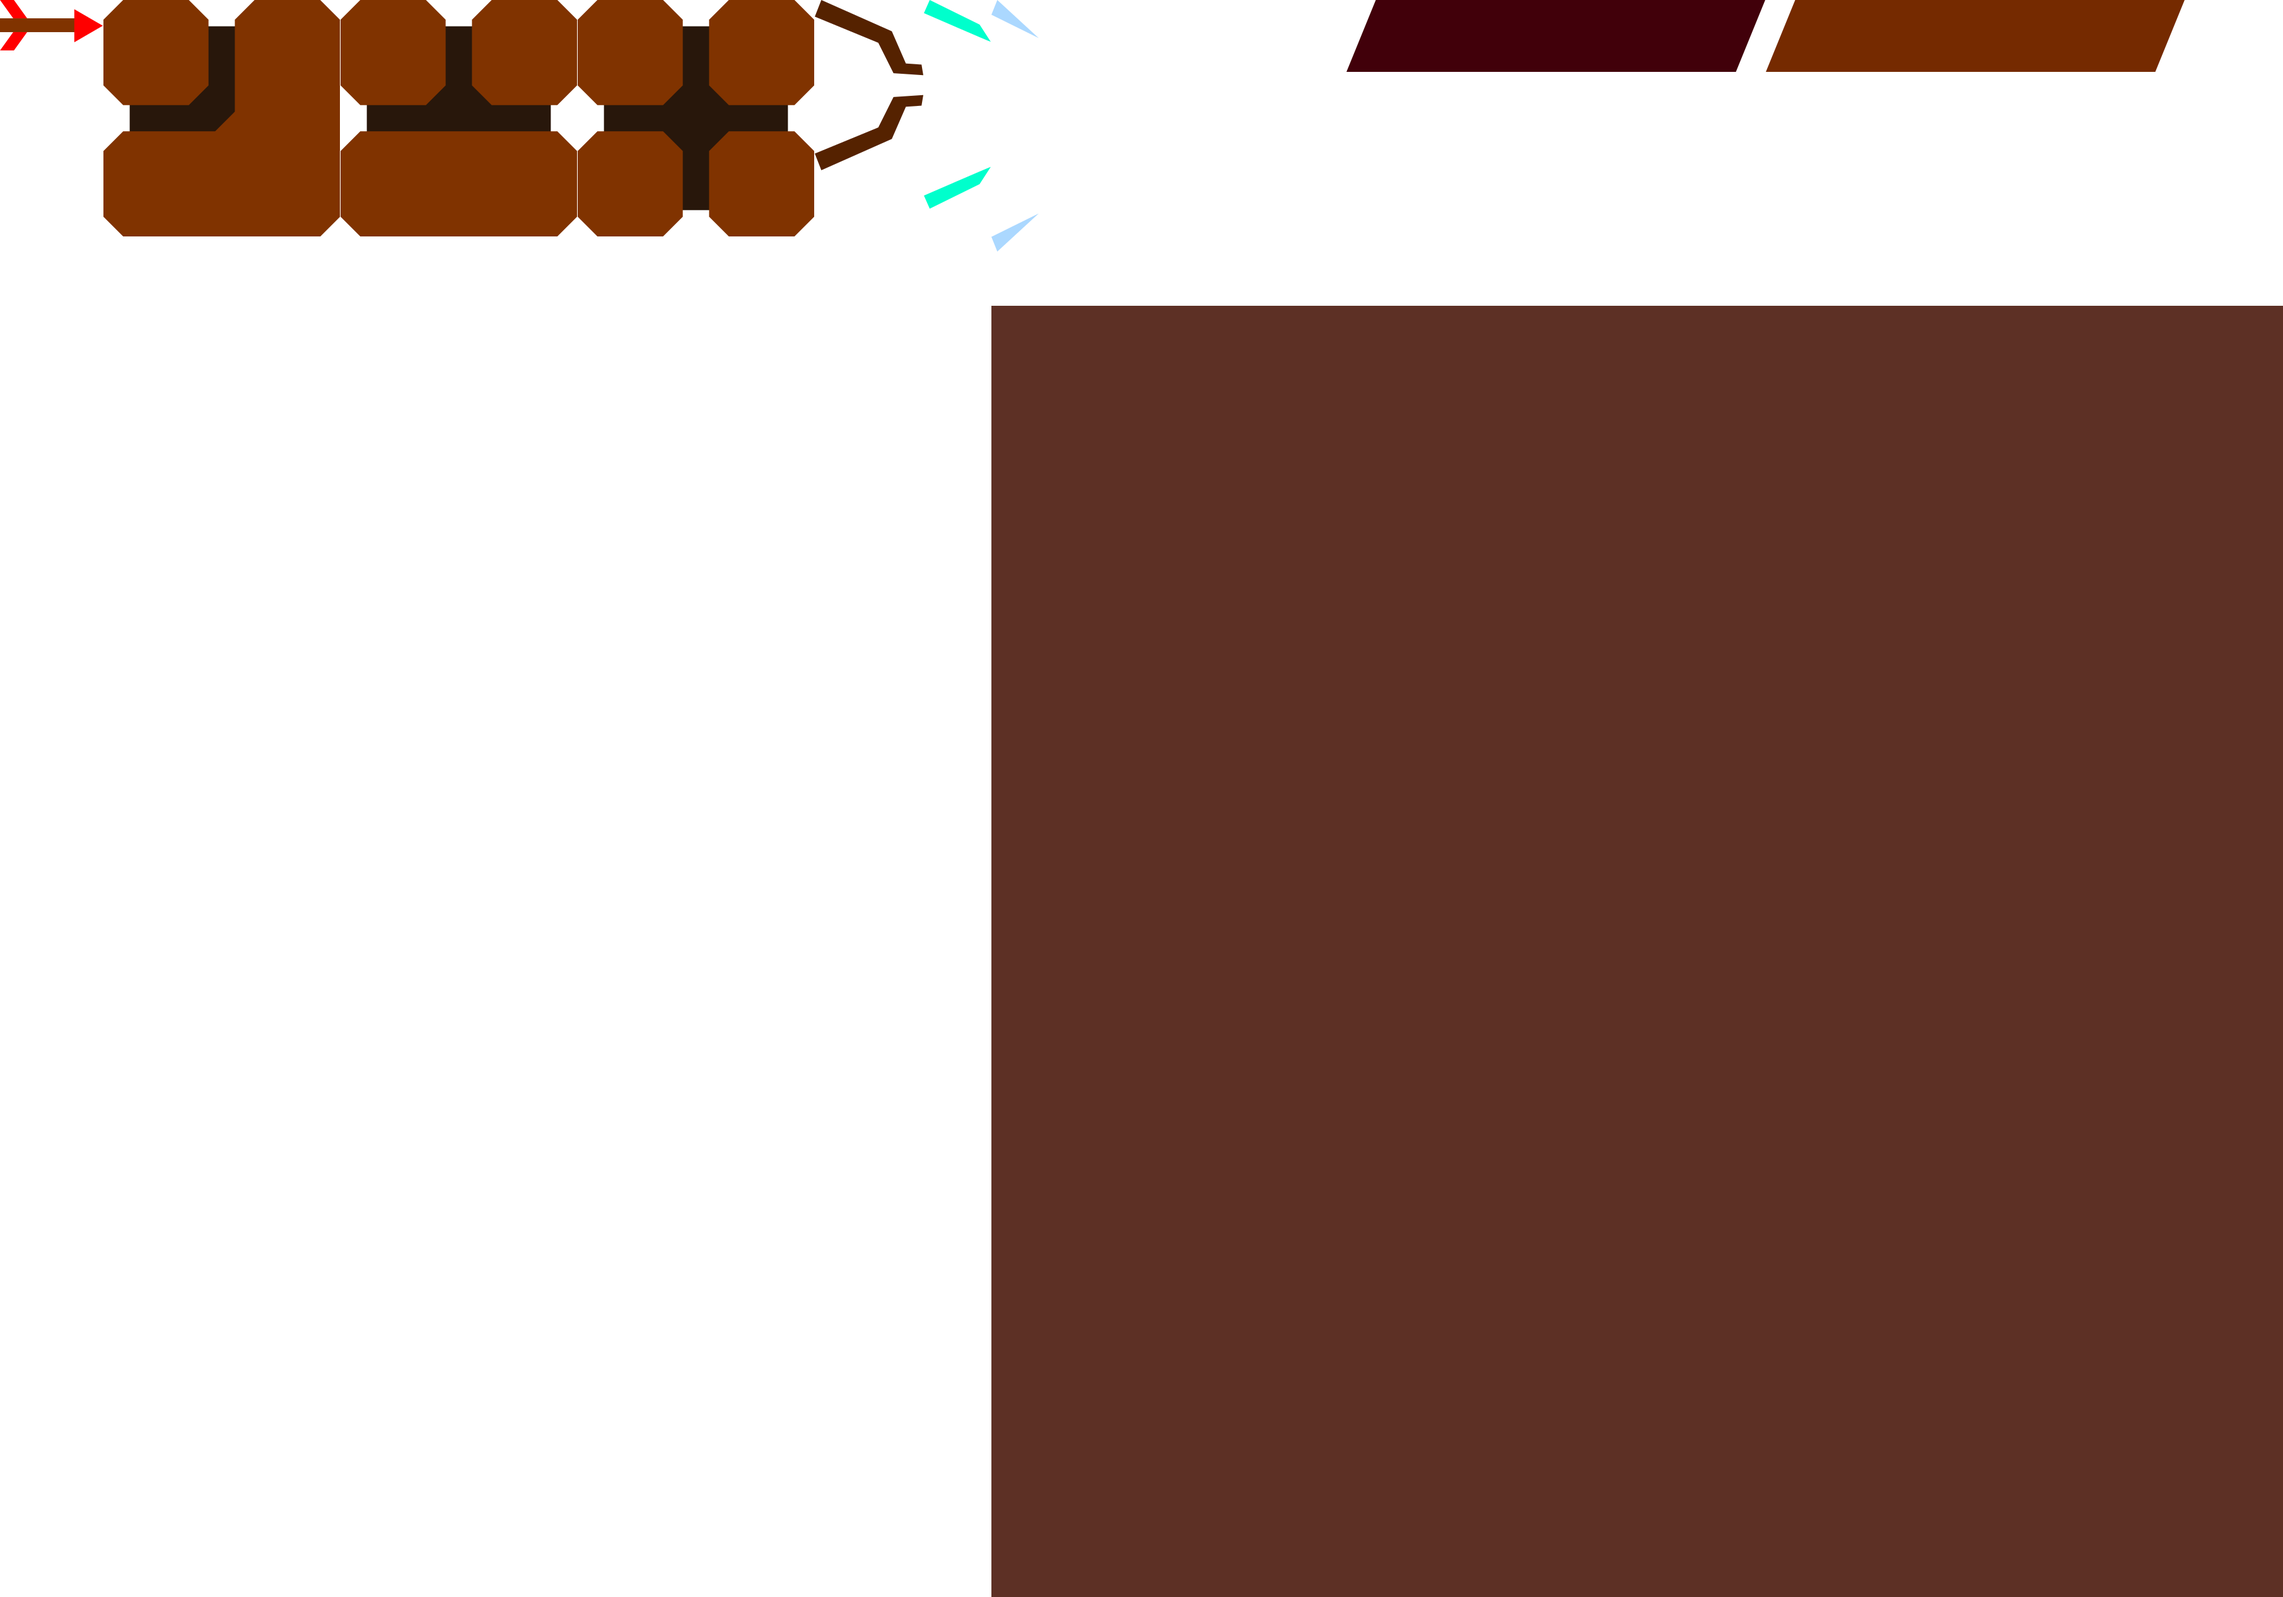
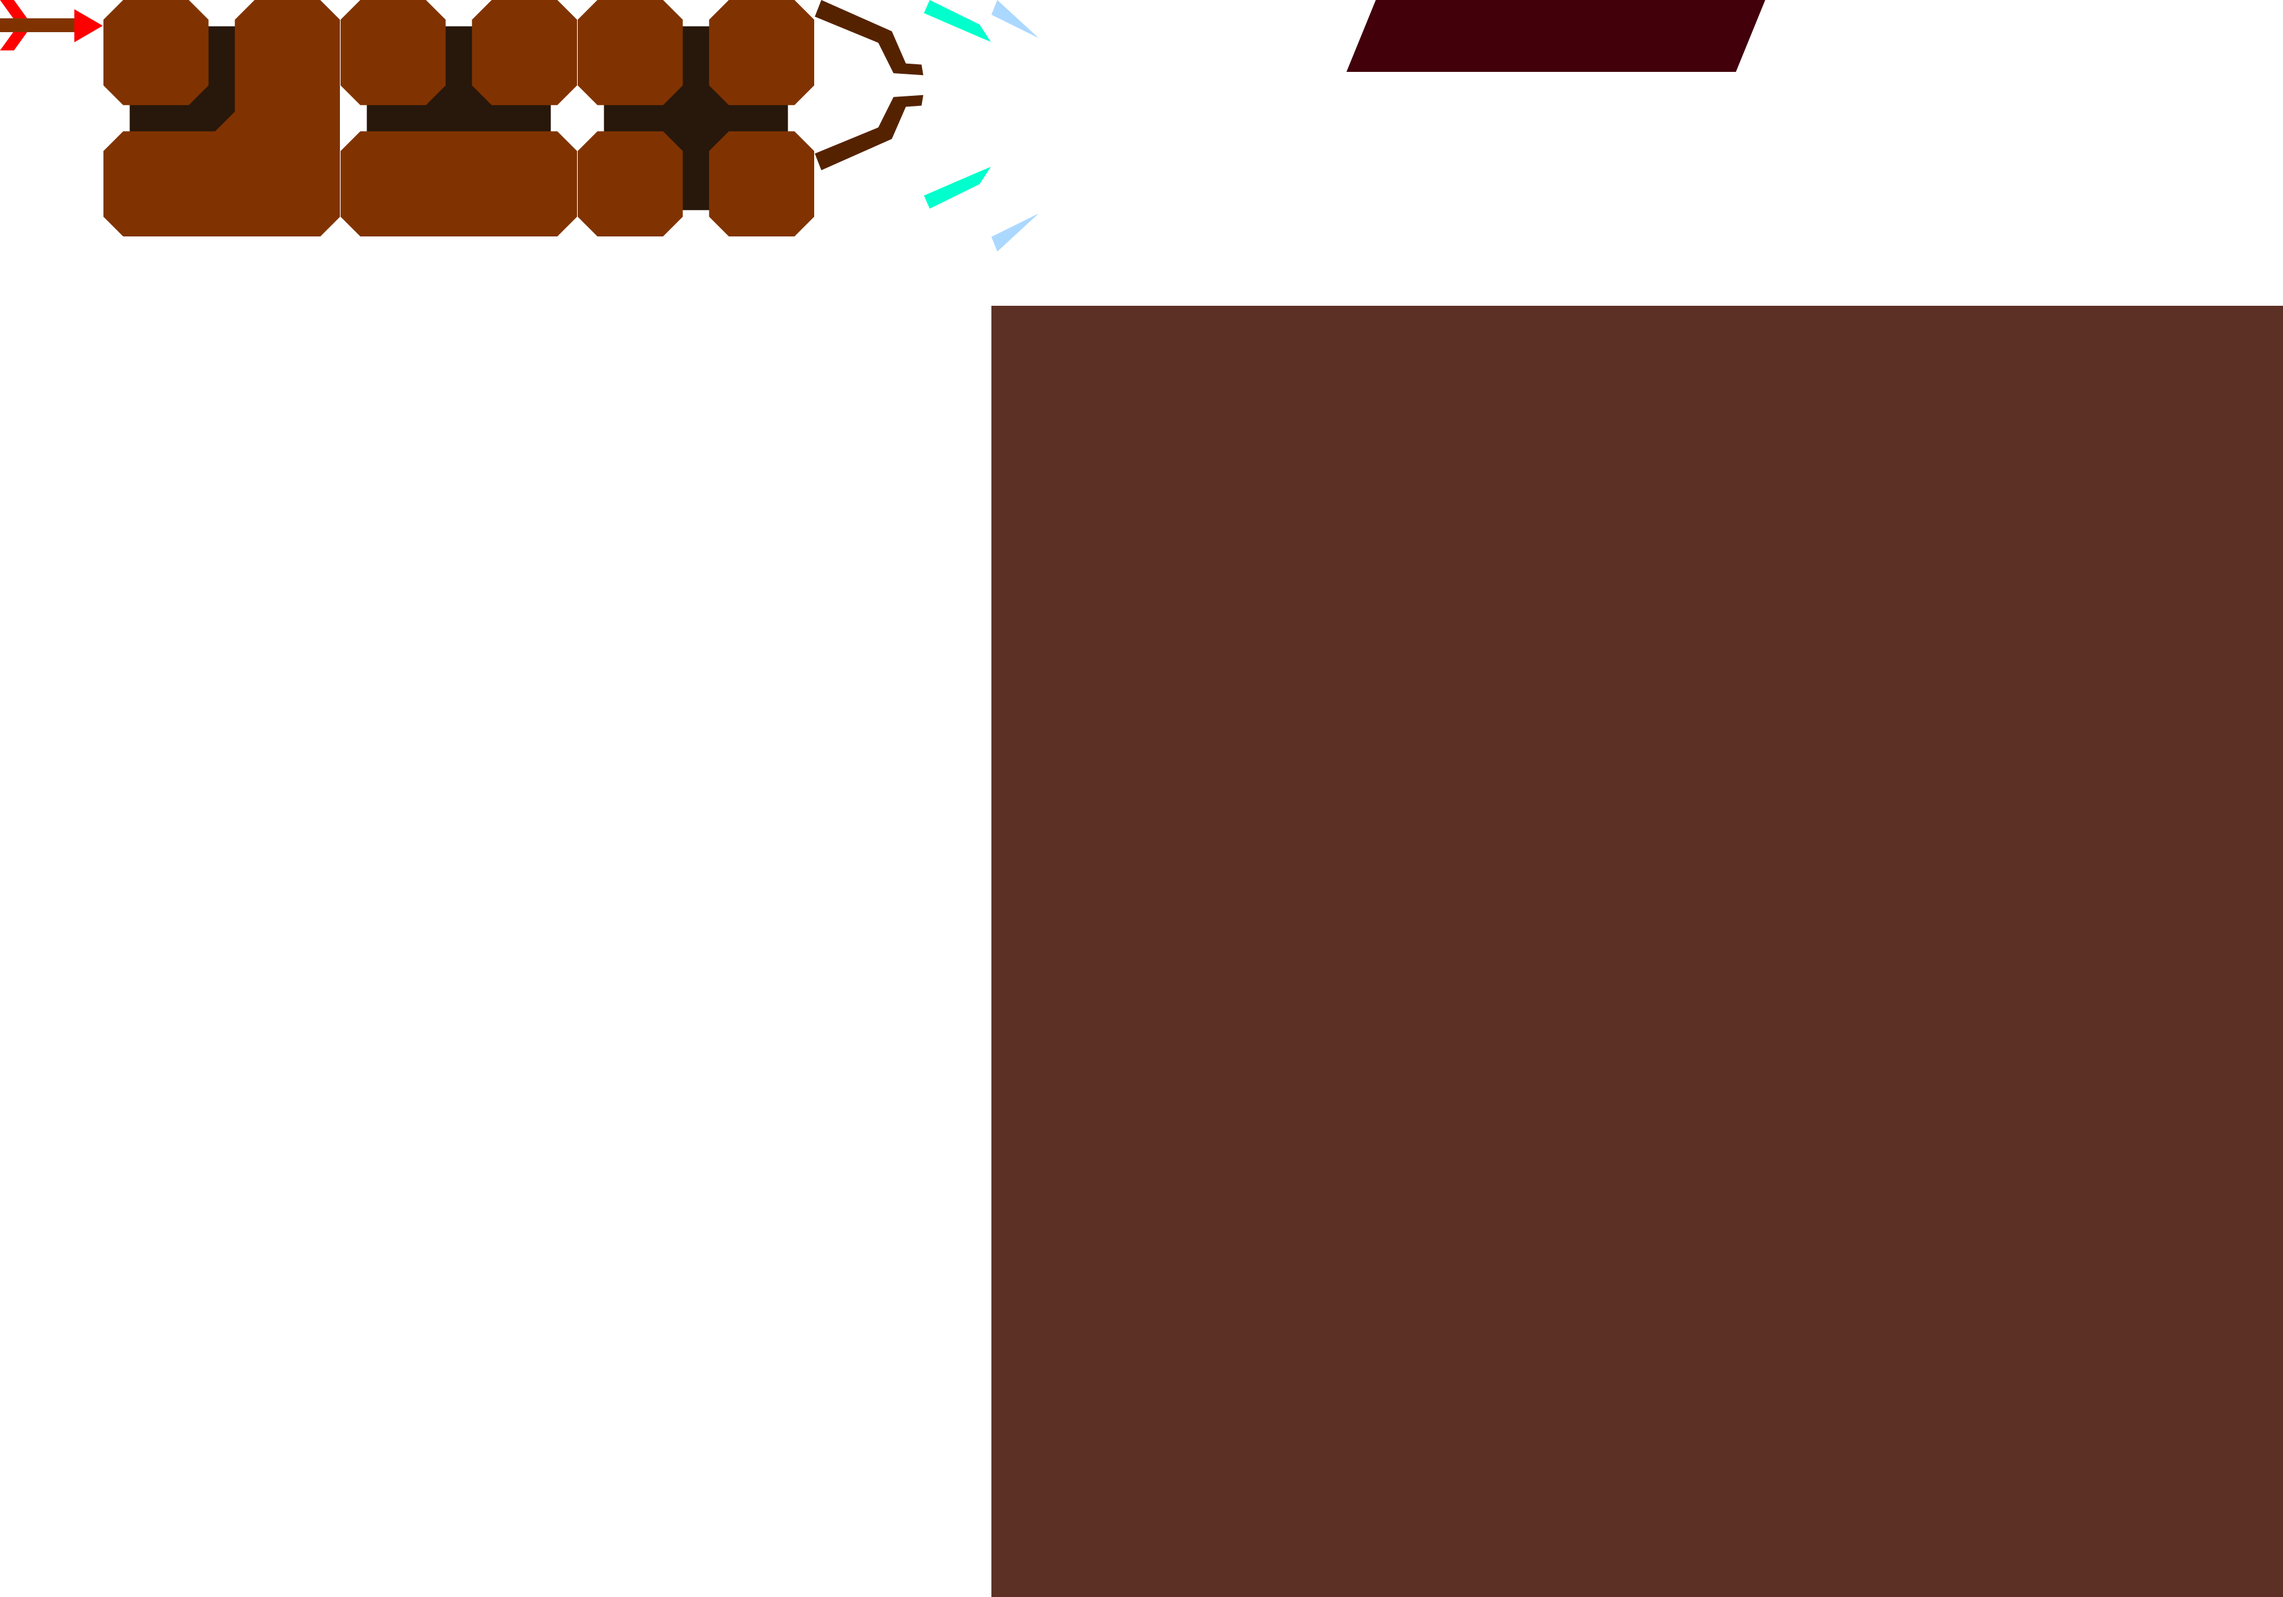
color & propagate mouse

Changed region(s): [[0.7804, 0.0, 0.9677, 0.0624]]

diff --git a/src/objects/text_button.rs b/src/objects/text_button.rs
@@ -19,16 +19,21 @@ pub struct TextButtonDescriptor<'a> {
 }
 
 impl TextButton {
-    pub fn new(desc: TextButtonDescriptor) -> Self {
-        const MARGIN: f32 = 0.04;
+    const COLOR: u32 = 0x41000AFF;
+    const HOVER_COLOR: u32 = 0x752A00FF;
 
-        let view = TextureAtlas::view_text_button();
+    pub fn new(desc: TextButtonDescriptor) -> Self {
+        const MARGIN: f32 = 1.3;
+
+        let tex_view = TextureAtlas::view_text_button();
+
         let back_quad = desc.layer.buffer.push(QuadInstance {
             pos: desc.pos,
-            size: view.aspect_ratio_x1() * desc.size + MARGIN,
+            size: tex_view.aspect_ratio_x1() * desc.size * MARGIN,
+            color: Self::COLOR,
             angle: 0.,
-            tex_pos: view.pos,
-            tex_size: view.size,
+            tex_pos: tex_view.pos,
+            tex_size: tex_view.size,
         });
 
         let text_width = desc.font.width(desc.text) * desc.size;
@@ -38,8 +43,8 @@ impl TextButton {
             .write(desc.text, desc.size)
             .map(|mut quad| {
                 quad.pos += desc.pos;
-                quad.pos.x -= text_width * 0.5; // Center Horizontally
-                quad.pos.y -= desc.size * 0.37; // Center Vertically
+                quad.pos.x -= text_width * 0.5;
+                quad.pos.y -= desc.size * 0.37;
                 desc.layer.buffer.push(quad)
             })
             .collect();
@@ -57,19 +62,21 @@ impl TextButton {
             || pos.y < layer.pos.y - half_size.y
             || layer.pos.y + half_size.y < pos.y)
     }
+}
 
-    pub fn mouse_moved(&mut self, pos: Vec2, layer: &mut QuadLayer) {
+impl MouseEventHandler<QuadLayer> for TextButton {
+    fn moved(&mut self, mouse: &Mouse, layer: &mut QuadLayer) {
         let quad = layer.buffer.get_ref(self.back_quad);
 
-        let view = if self.hitbox_check(pos, quad) {
-            TextureAtlas::view_text_button_hover()
+        let color = if self.hitbox_check(mouse.pos, quad) {
+            Self::HOVER_COLOR
         } else {
-            TextureAtlas::view_text_button()
+            Self::COLOR
         };
 
-        if quad.tex_pos.x != view.pos.x {
+        if quad.color != color {
             let quad = layer.buffer.get_mut(self.back_quad);
-            quad.tex_pos = view.pos;
+            quad.color = color;
         }
     }
 }

diff --git a/src/shaders/quad.rs b/src/shaders/quad.rs
@@ -14,20 +14,22 @@ pub struct QuadShader {
 #[repr(C)]
 #[derive(Copy, Clone, Debug, bytemuck::NoUninit)]
 pub struct QuadInstance {
+    pub color: u32,
+    pub angle: f32,
     pub pos: Vec2,
     pub size: Vec2,
-    pub angle: f32,
     pub tex_pos: Vec2,
     pub tex_size: Vec2,
 }
 
 impl QuadInstance {
-    const ATTRIBS: [wgpu::VertexAttribute; 5] = wgpu::vertex_attr_array![
-        0 => Float32x2, // pos
-        1 => Float32x2, // size
-        2 => Float32,   // angle
-        3 => Float32x2, // tex_pos
-        4 => Float32x2, // tex_size
+    const ATTRIBS: [wgpu::VertexAttribute; 6] = wgpu::vertex_attr_array![
+        0 => Unorm8x4,  // color
+        1 => Float32,   // angle
+        2 => Float32x2, // pos
+        3 => Float32x2, // size
+        4 => Float32x2, // tex_pos
+        5 => Float32x2, // tex_size
     ];
 
     pub fn desc() -> wgpu::VertexBufferLayout<'static> {
@@ -38,13 +40,25 @@ impl QuadInstance {
         }
     }
 
-    pub fn new(pos: Vec2, width: f32, texture: TextureAtlasView) -> Self {
+    pub fn new_tex(pos: Vec2, width: f32, texture: TextureAtlasView) -> Self {
         Self {
             pos,
             size: texture.aspect_ratio_x1() * width,
             angle: 0.,
+            color: 0,
             tex_pos: texture.pos,
             tex_size: texture.size,
+        }
+    }
+
+    pub fn new_color(pos: Vec2, size: Vec2, color: u32) -> Self {
+        Self {
+            pos,
+            size,
+            angle: 0.,
+            color,
+            tex_pos: Vec2::new(-1., 0.),
+            tex_size: Vec2::zero(),
         }
     }
 }

diff --git a/src/scene_manager.rs b/src/scene_manager.rs
@@ -1,5 +1,6 @@
 use winit::event::WindowEvent;
 
+use crate::assets::Assets;
 use crate::ligth_pipeline::LigthPipeline;
 use crate::math::Vec2;
 use crate::mouse::Mouse;
@@ -9,7 +10,9 @@ use crate::ErrResult;
 use crate::WgpuContext;
 
 pub struct SceneManager {
-    scene: Scene,
+    scene: Lobby,
+
+    assets: Assets,
     shaders: Shaders,
     pipeline: LigthPipeline,
     mouse: Mouse,
@@ -19,12 +22,15 @@ impl SceneManager {
     pub fn new(ctx: &WgpuContext, width: u32, height: u32) -> ErrResult<Self> {
         let pipeline = LigthPipeline::new(ctx, width, height);
         let shaders = Shaders::new(ctx, &pipeline.textures)?;
+        let assets = Assets::load();
+        let mouse = Mouse::new();
 
         Ok(Self {
-            scene: Scene::new(ctx),
+            scene: Lobby::new(ctx, &assets),
+            assets,
             shaders,
             pipeline,
-            mouse: Mouse::new(),
+            mouse,
         })
     }
 
@@ -34,7 +40,7 @@ impl SceneManager {
     }
 
     pub fn draw(&mut self, ctx: &WgpuContext, target: &wgpu::TextureView) {
-        self.mouse.propagate_events(&mut self.scene);
+        self.mouse.propagate_events(&mut self.scene, &mut ());
         self.mouse.update();
 
         let mut ligth_frame = self.pipeline.start_frame(&ctx, target);

diff --git a/src/mouse.rs b/src/mouse.rs
@@ -7,9 +7,12 @@ pub struct Mouse {
     screen_size: Vec2,
 }
 
-pub trait MouseEventHandler {
+pub trait MouseEventHandler<A> {
     #[allow(unused_variables)]
-    fn moved(&mut self, mouse: &Mouse) {}
+    fn update(&mut self, mouse: &Mouse, args: &mut A) {}
+
+    #[allow(unused_variables)]
+    fn moved(&mut self, mouse: &Mouse, args: &mut A) {}
     // fn down(&mut self, mouse: &Mouse);
     // fn up(&mut self, mouse: &Mouse);
 }
@@ -35,9 +38,11 @@ impl Mouse {
         }
     }
 
-    pub fn propagate_events<H: MouseEventHandler>(&self, handler: &mut H) {
+    pub fn propagate_events<A, H: MouseEventHandler<A>>(&self, handler: &mut H, args: &mut A) {
+        handler.update(self, args);
+
         if self.pos != self.past_pos {
-            handler.moved(self);
+            handler.moved(self, args);
         }
     }
 

diff --git a/src/objects/block.rs b/src/objects/block.rs
@@ -16,11 +16,11 @@ macro_rules! block_object {
             pub fn new(layers: &mut GameLayers, pos: Vec2) -> Self {
                 let size = 0.3;
 
-                let quad_id =
-                    layers
-                        .blocks
-                        .buffer
-                        .push(QuadInstance::new(pos, size, TextureAtlas::$image()));
+                let quad_id = layers.blocks.buffer.push(QuadInstance::new_tex(
+                    pos,
+                    size,
+                    TextureAtlas::$image(),
+                ));
 
                 let mut shadow_id = [0; $SHAPE.len()];
 

diff --git a/src/camera.rs b/src/camera.rs
@@ -35,11 +35,8 @@ impl Camera {
         });
     }
 
-    pub fn update_buffers(&mut self, ctx: &WgpuContext) {
-        self.uniform.update_buffers(ctx);
-    }
-
-    pub fn bind<'a>(&'a self, pass: &mut LigthRenderPass<'a>) {
+    pub fn bind<'a>(&'a mut self, pass: &mut LigthRenderPass<'a>) {
+        self.uniform.update_buffers(pass.context);
         self.uniform.bind(1, &mut pass.normal);
         self.uniform.bind(1, &mut pass.ligth);
         self.uniform.bind(1, &mut pass.diffuse);

diff --git a/src/texture_atlas.rs b/src/texture_atlas.rs
@@ -110,14 +110,6 @@ impl TextureAtlas {
         }
     }
     #[allow(dead_code)]
-    pub fn view_text_button_hover() -> TextureAtlasView {
-        TextureAtlasView {
-            pos: Vec2::new(0.77348065f32, 0f32),
-            size: Vec2::new(0.18342541f32, 0.04500592f32),
-            ratio: 5.8245616f32,
-        }
-    }
-    #[allow(dead_code)]
     pub fn view_triangles() -> TextureAtlasView {
         TextureAtlasView {
             pos: Vec2::new(0.43425414f32, 0.19147256f32),

diff --git a/src/font/mod.rs b/src/font/mod.rs
@@ -55,6 +55,7 @@ impl Font {
                 let quad = QuadInstance {
                     pos: pos + glyph.pos * scale + quad_size * Vec2::new(0.5, -0.5),
                     size: quad_size,
+                    color: 0xFFFFFFFF,
                     angle: 0.,
                     tex_pos: glyph.tex_pos,
                     tex_size: glyph.tex_size,

diff --git a/src/objects.rs b/src/objects.rs
@@ -1,8 +1,10 @@
 mod block;
 mod text_button;
+mod text_input;
 
 pub use block::*;
 pub use text_button::*;
+pub use text_input::*;
 
 use crate::math::*;
 use crate::shaders::*;

diff --git a/src/lib.rs b/src/lib.rs
@@ -1,5 +1,6 @@
 #![feature(float_next_up_down)]
 
+mod assets;
 mod camera;
 mod error;
 mod font;
